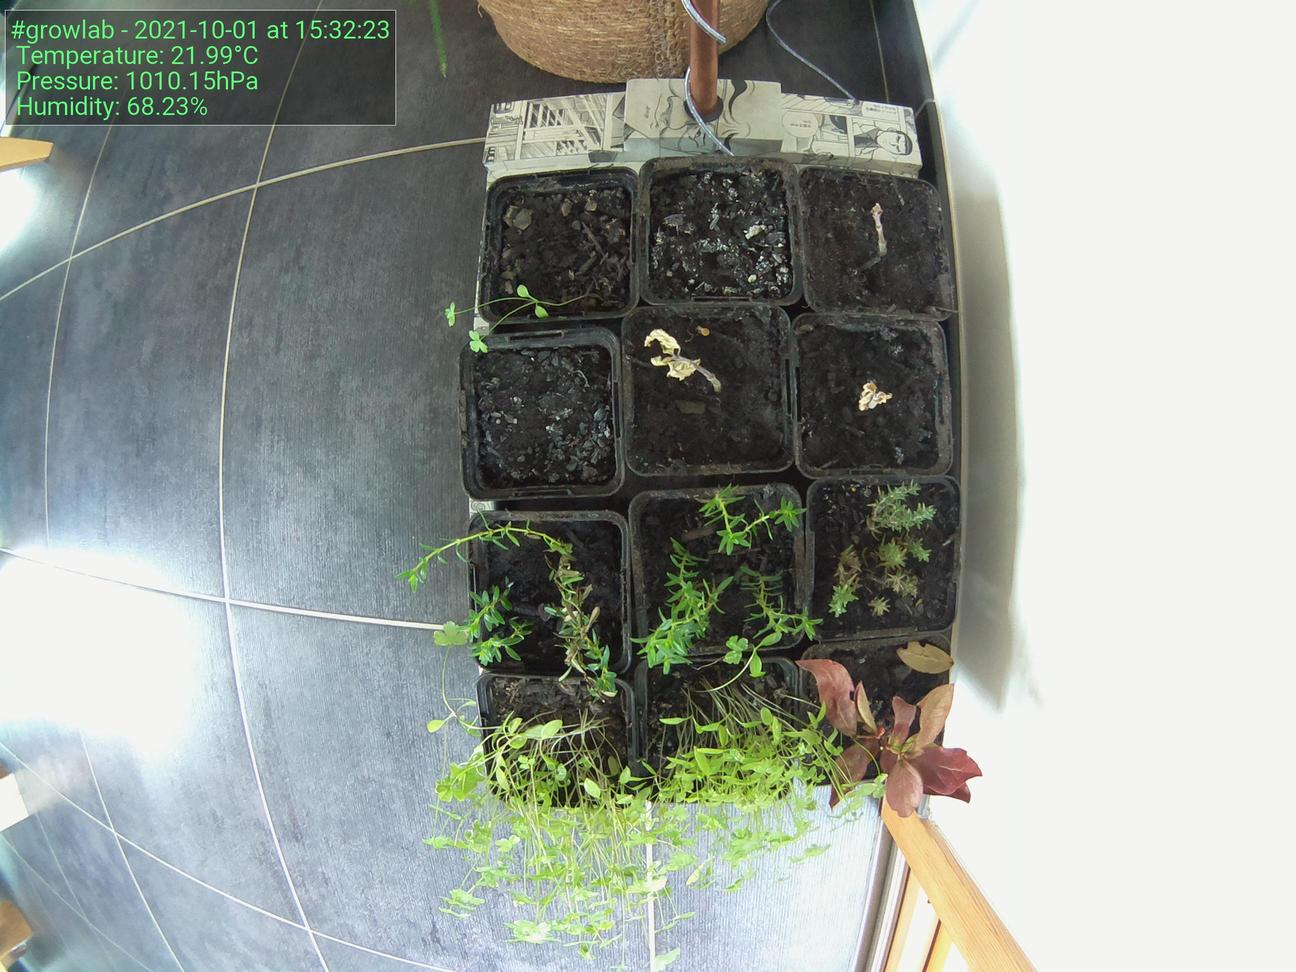
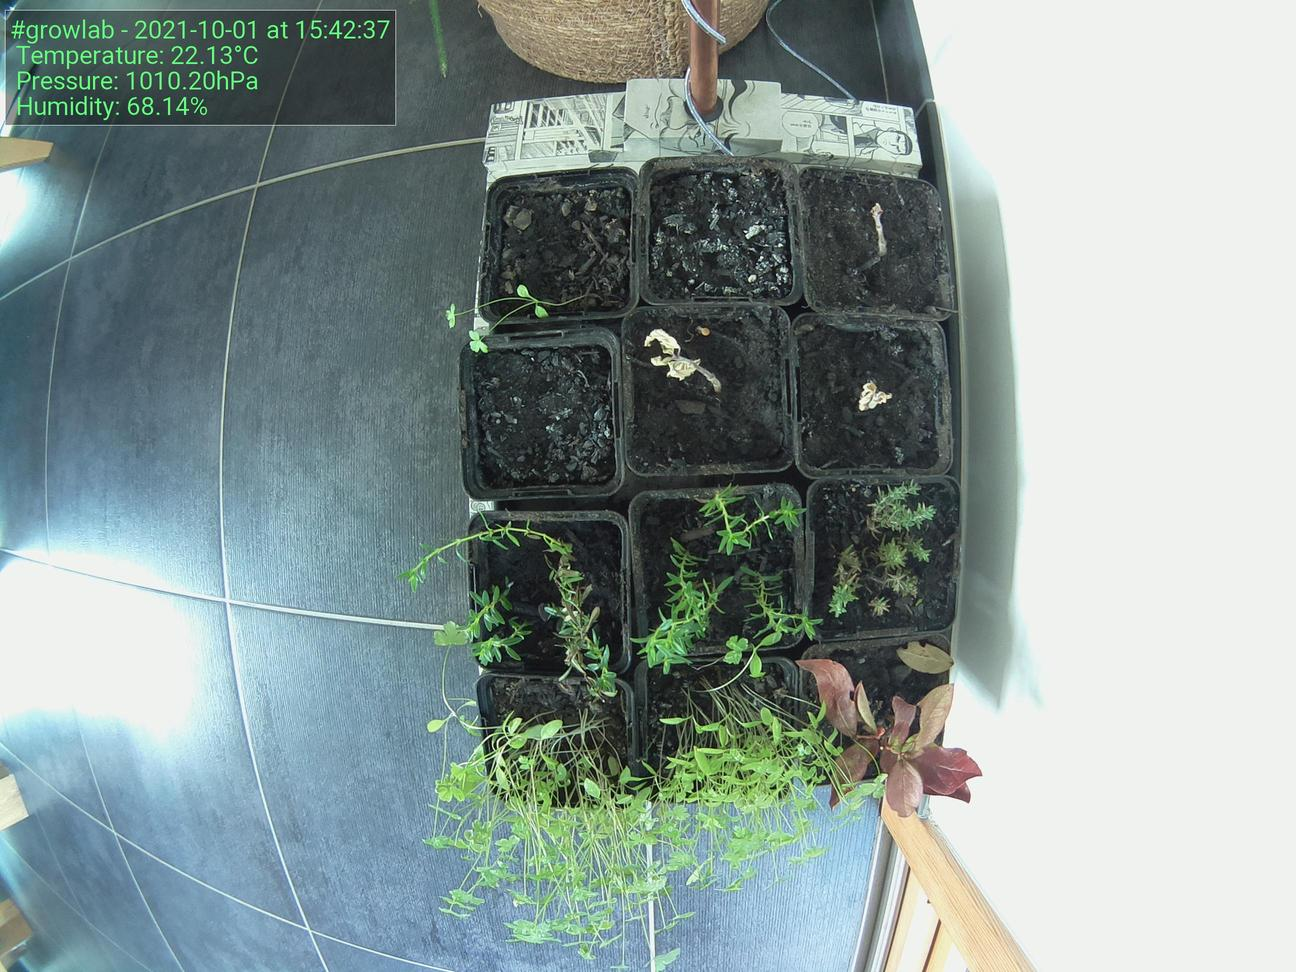
Update images at Fri  1 Oct 15:42:46 CEST 2021

diff --git a/docs/index.html b/docs/index.html
@@ -52,19 +52,19 @@
                             </tr>
                             <tr>
                                 <td>Time</td>
-                                <td>15:32:23</td>
+                                <td>15:42:37</td>
                             </tr>
                             <tr>
                                 <td>Temperature</td>
-                                <td>21.99°C</td>
+                                <td>22.13°C</td>
                             </tr>
                             <tr>
                                 <td>Humidity</td>
-                                <td>68.23%</td>
+                                <td>68.14%</td>
                             </tr>
                             <tr>
                                 <td>Pressure</td>
-                                <td>1010.15hPa</td>
+                                <td>1010.20hPa</td>
                             </tr>
                         </tbody>
                     </table>
@@ -72,7 +72,7 @@
 
                 <h5>Latest image</h5>
                 <div style="width: 85%;">
-                            <img class="figure-img img-fluid rounded" src="./preview.jpg?uid=1633095151.866017">
+                            <img class="figure-img img-fluid rounded" src="./preview.jpg?uid=1633095766.1763303">
                 </div>
             </div>
         </div>
